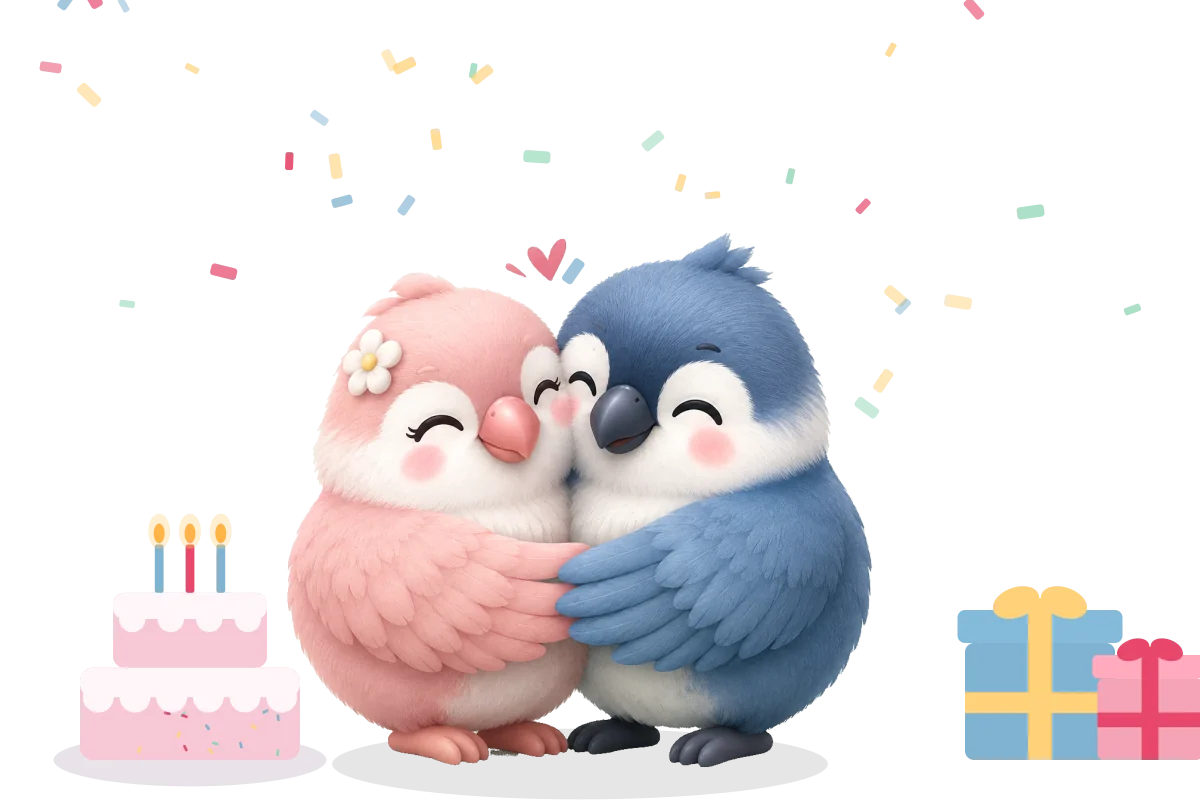
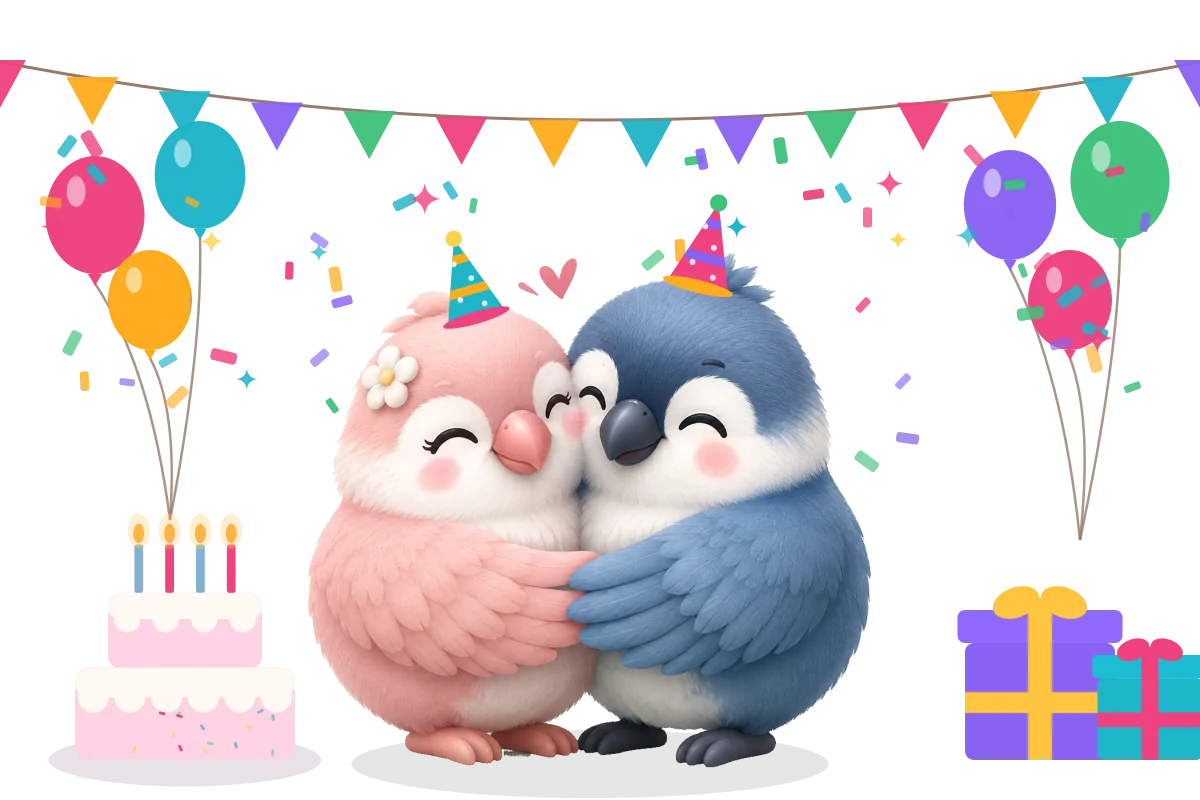
feat: festive birthday postcard with party colours, bunting, balloons and confetti

diff --git a/components/gift/gift-renderer.tsx b/components/gift/gift-renderer.tsx
@@ -113,27 +113,85 @@ function Eyebrow({ text, className }: { text: string; className?: string }) {
 
 // Designs ---------------------------------------------------------------------
 
-/** A real postcard: message on the left, stamp and address lines on the right. */
+/** Party colour n (1..5) with a fallback to the accent, so every palette works. */
+const partyColor = (n: number) => `var(--t-c${((n - 1) % 5) + 1}, var(--t-accent))`;
+
+/** Rainbow gradient on the cover heading, from the palette's party colours. */
+const rainbowHeading =
+  "[&_h1]:w-fit [&_h1]:bg-clip-text [&_h1]:text-transparent [&_h1]:[background-image:linear-gradient(100deg,var(--t-c1,var(--t-accent)),var(--t-c2,var(--t-accent))_35%,var(--t-c4,var(--t-accent))_70%,var(--t-c3,var(--t-accent)))]";
+
+/** A string of triangle flags across the top of a card. */
+function Bunting({ count }: { count: number }) {
+  return (
+    <div aria-hidden="true" className="relative px-2 pt-2">
+      <span className="absolute inset-x-0 top-2 h-px bg-[color:var(--t-fg)]/20" />
+      <div className="flex justify-between">
+        {Array.from({ length: count }, (_, i) => (
+          <span
+            key={i}
+            className="h-5 w-4 [clip-path:polygon(0_0,100%_0,50%_100%)] sm:h-6 sm:w-5"
+            style={{ background: partyColor(i + 1) }}
+          />
+        ))}
+      </div>
+    </div>
+  );
+}
+
+/** Three balloons on strings. */
+function Balloons({ className }: { className?: string }) {
+  const balloons = [
+    { cx: 24, cy: 34, rx: 17, ry: 21, c: 1 },
+    { cx: 64, cy: 38, rx: 15, ry: 19, c: 2 },
+    { cx: 45, cy: 22, rx: 17, ry: 21, c: 3 },
+  ];
+  return (
+    <svg viewBox="0 0 90 124" aria-hidden="true" className={className}>
+      {balloons.map((b) => (
+        <path key={`s${b.c}`} d={`M${b.cx} ${b.cy + b.ry + 3} Q${b.cx + 6} ${(b.cy + 120) / 2} 45 120`} fill="none" strokeWidth="1.2" style={{ stroke: "var(--t-muted)" }} />
+      ))}
+      {balloons.map((b) => (
+        <g key={b.c}>
+          <ellipse cx={b.cx} cy={b.cy} rx={b.rx} ry={b.ry} style={{ fill: partyColor(b.c) }} />
+          <path d={`M${b.cx - 3} ${b.cy + b.ry + 3} L${b.cx} ${b.cy + b.ry - 1} L${b.cx + 3} ${b.cy + b.ry + 3} Z`} style={{ fill: partyColor(b.c) }} />
+          <ellipse cx={b.cx - b.rx * 0.38} cy={b.cy - b.ry * 0.4} rx={b.rx * 0.22} ry={b.ry * 0.3} fill="#fff" opacity="0.45" />
+        </g>
+      ))}
+    </svg>
+  );
+}
+
+/** A postcard with an airmail frame: message on the left, balloons, stamp and address lines on the right. */
 function PostcardDesign(ctx: Ctx) {
   const { compact, style, eyebrow } = ctx;
   return (
-    <article className="relative overflow-hidden rounded-2xl border-[6px] border-[color:var(--t-card)] shadow-[0_1px_0_rgba(0,0,0,0.06)] [background:var(--t-bg)]">
-      <Pattern kind="dots" opacity={0.25} />
-      <Decorations kind="petals" />
-      <div className={cn("relative grid rounded-xl bg-[color:var(--t-card)]/92", compact ? "gap-5 p-5 sm:grid-cols-[3fr_2fr]" : "gap-7 p-6 sm:grid-cols-[3fr_2fr] sm:p-9")}>
-        <Sections ctx={ctx} className={compact ? "gap-4" : "gap-6"} />
-        <aside className="flex flex-col gap-5 border-t border-dashed border-[color:var(--t-accent-soft)] pt-5 sm:border-t-0 sm:border-l sm:pt-0 sm:pl-6">
-          <div className="self-end rounded-md border-2 border-dashed border-[color:var(--t-deco)] bg-[color:var(--t-accent-soft)]/40 p-1.5">
-            <Illustration src={style.illustration} className={compact ? "w-24" : "w-32"} />
-            <p className="mt-1 text-center font-display text-[10px] font-semibold tracking-[0.3em] uppercase text-[color:var(--t-muted)]">Eain</p>
-          </div>
-          <div className="mt-auto flex flex-col gap-4">
-            <Eyebrow text={eyebrow} className="text-[color:var(--t-accent)]" />
-            {[0, 1, 2].map((i) => (
-              <div key={i} className="h-px w-full bg-[color:var(--t-accent-soft)]" />
-            ))}
-          </div>
-        </aside>
+    <article className="relative overflow-hidden rounded-2xl p-2 shadow-[0_1px_0_rgba(0,0,0,0.06)] [background:repeating-linear-gradient(135deg,var(--t-c1,var(--t-accent))_0_14px,var(--t-card)_14px_28px,var(--t-c3,var(--t-deco))_28px_42px,var(--t-card)_42px_56px)]">
+      <div className="relative overflow-hidden rounded-xl [background:var(--t-bg)]">
+        <Decorations kind={style.decoration} />
+        <Bunting count={compact ? 11 : 15} />
+        <div
+          className={cn(
+            "relative m-3 grid rounded-xl bg-[color:var(--t-card)]/90 shadow-sm",
+            compact ? "gap-5 p-5 sm:grid-cols-[3fr_2fr]" : "gap-7 p-6 sm:m-4 sm:grid-cols-[3fr_2fr] sm:p-9",
+          )}
+        >
+          <Sections ctx={ctx} className={compact ? "gap-4" : "gap-6"} itemClassName={rainbowHeading} />
+          <aside className="flex flex-col gap-5 border-t border-dashed border-[color:var(--t-accent-soft)] pt-5 sm:border-t-0 sm:border-l sm:pt-0 sm:pl-6">
+            <div className="flex items-start justify-end gap-2">
+              <Balloons className={cn("float-slow", compact ? "w-11" : "w-16")} />
+              <div className="rounded-md border-2 border-dashed border-[color:var(--t-deco)] bg-[color:var(--t-accent-soft)]/40 p-1.5">
+                <Illustration src={style.illustration} className={compact ? "w-24" : "w-32"} />
+                <p className="mt-1 text-center font-display text-[10px] font-semibold tracking-[0.3em] uppercase text-[color:var(--t-muted)]">Eain</p>
+              </div>
+            </div>
+            <div className="mt-auto flex flex-col gap-4">
+              <Eyebrow text={eyebrow} className="text-[color:var(--t-accent)]" />
+              {[0, 1, 2].map((i) => (
+                <div key={i} className="h-px w-full" style={{ background: partyColor(i + 1), opacity: 0.45 }} />
+              ))}
+            </div>
+          </aside>
+        </div>
       </div>
     </article>
   );
@@ -468,8 +526,47 @@ function PhotoPlaceholder({ label, polaroid }: { label: string; polaroid?: boole
   );
 }
 
+/**
+ * Multicoloured confetti for birthday designs: strips, dots, rings and
+ * sparkles in the palette's five party colours. Fixed positions keep the
+ * server and client render identical.
+ */
+function PartyConfetti() {
+  // [left %, top %, shape, colour 1..5, rotation]
+  const pieces: [number, number, "strip" | "dot" | "ring" | "spark", number, number][] = [
+    [4, 14, "strip", 1, 20], [11, 38, "dot", 3, 0], [3, 62, "ring", 4, 0], [9, 86, "strip", 2, -30],
+    [18, 6, "spark", 2, 0], [27, 94, "dot", 5, 0], [36, 4, "strip", 4, 60], [47, 96, "ring", 1, 0],
+    [55, 5, "dot", 1, 0], [63, 93, "strip", 3, -15], [72, 7, "ring", 5, 0], [80, 95, "spark", 4, 0],
+    [88, 20, "strip", 5, 40], [95, 42, "dot", 2, 0], [91, 66, "strip", 1, -50], [97, 88, "ring", 3, 0],
+    [50, 50, "spark", 3, 0], [22, 70, "strip", 3, 75],
+  ];
+  return (
+    <div aria-hidden="true" className="pointer-events-none absolute inset-0 select-none">
+      {pieces.map(([x, y, shape, c, rot], i) => {
+        const color = partyColor(c);
+        const base = { left: `${x}%`, top: `${y}%`, transform: `rotate(${rot}deg)` };
+        switch (shape) {
+          case "strip":
+            return <span key={i} className="absolute h-3.5 w-1.5 rounded-sm opacity-85" style={{ ...base, background: color }} />;
+          case "dot":
+            return <span key={i} className="absolute size-2 rounded-full opacity-85" style={{ ...base, background: color }} />;
+          case "ring":
+            return <span key={i} className="absolute size-2.5 rounded-full border-2 opacity-80" style={{ ...base, borderColor: color }} />;
+          case "spark":
+            return (
+              <span key={i} className="absolute text-sm leading-none" style={{ ...base, color }}>
+                ✦
+              </span>
+            );
+        }
+      })}
+    </div>
+  );
+}
+
 /** Purely visual scatter. Reads --t-deco and --glow from the palette. */
 function Decorations({ kind }: { kind: Decoration }) {
+  if (kind === "party") return <PartyConfetti />;
   const spots = [
     [6, 8],
     [88, 12],

diff --git a/features/gifts/templates.ts b/features/gifts/templates.ts
@@ -6,7 +6,7 @@ import type { GiftTheme, Section, ThemeVariant } from "./schemas";
  * section renderer and differ by decoration, layout, default look and the
  * sections they start with.
  */
-export type Decoration = "petals" | "stars" | "confetti" | "hearts" | "sparkles" | "leaves";
+export type Decoration = "petals" | "stars" | "confetti" | "hearts" | "sparkles" | "leaves" | "party";
 
 /** card: one framed card. scroll: each section is its own card, revealed as you scroll. */
 export type Layout = "card" | "scroll";
@@ -72,11 +72,14 @@ const timeline = (items: { date: string; title: string; text: string }[]): Secti
 export const templates: Record<string, TemplateDefinition> = {
   "birthday-postcard": {
     design: "postcard",
-    decoration: "petals",
+    decoration: "party",
     layout: "card",
-    defaultVariant: "blossom",
+    defaultVariant: "celebrate",
     defaultSections: (l) => [
-      cover(my(l, "Happy Birthday!", "မွေးနေ့ပျော်ရွှင်ပါစေ")),
+      cover(
+        my(l, "Happy Birthday!", "မွေးနေ့ပျော်ရွှင်ပါစေ"),
+        my(l, "Make a wish. Today is all yours.", "ဆုတောင်းလိုက်ပါ။ ဒီနေ့ဟာ သင့်အတွက်ပါ။"),
+      ),
       message(
         my(
           l,

diff --git a/components/gift/palettes.ts b/components/gift/palettes.ts
@@ -79,6 +79,30 @@ export const palettes: Record<ThemeVariant, CSSProperties> = {
     "--bird-b-wing": "#76a2c6",
     "--branch": "#8a5a3c",
   } as CSSProperties,
+  /** Birthday party: pastel rainbow ground with five bright confetti colours (--t-c1..5). */
+  celebrate: {
+    "--t-bg": "linear-gradient(135deg, #ffe6f0 0%, #fff3d6 32%, #e1f6ff 66%, #efe6ff 100%)",
+    "--t-card": "#fffdf8",
+    "--t-fg": "#2d1b3d",
+    "--t-muted": "#7a6a88",
+    "--t-accent": "#f0417f",
+    "--t-accent-soft": "#ffe0ec",
+    "--t-deco": "#ffc53d",
+    "--t-c1": "#f0417f",
+    "--t-c2": "#ffac1c",
+    "--t-c3": "#1fb5c9",
+    "--t-c4": "#8a63f5",
+    "--t-c5": "#3ec27a",
+    "--brand": "#f0417f",
+    "--brand-soft": "#ffe0ec",
+    "--glow": "#ffd24d",
+    "--foreground": "#2d1b3d",
+    "--bird-a": "#f58aa0",
+    "--bird-a-wing": "#ee6f8a",
+    "--bird-b": "#7fb2d0",
+    "--bird-b-wing": "#6a9dbd",
+    "--branch": "#8b5e4b",
+  } as CSSProperties,
 };
 
 /** Swatch colour for pickers, one per variant. */
@@ -87,4 +111,5 @@ export const variantSwatch: Record<ThemeVariant, string> = {
   night: "#3a2372",
   mint: "#6cc3a0",
   sunset: "#f59b7e",
+  celebrate: "conic-gradient(#f0417f, #ffac1c, #1fb5c9, #8a63f5, #3ec27a, #f0417f)",
 };

diff --git a/features/gifts/schemas.ts b/features/gifts/schemas.ts
@@ -1,7 +1,7 @@
 import { z } from "zod";
 
 /** Visual variants a template can render. Templates carry their own palette. */
-export const themeVariantSchema = z.enum(["blossom", "night", "mint", "sunset"]);
+export const themeVariantSchema = z.enum(["blossom", "night", "mint", "sunset", "celebrate"]);
 export type ThemeVariant = z.infer<typeof themeVariantSchema>;
 export const THEME_VARIANTS = themeVariantSchema.options;
 
